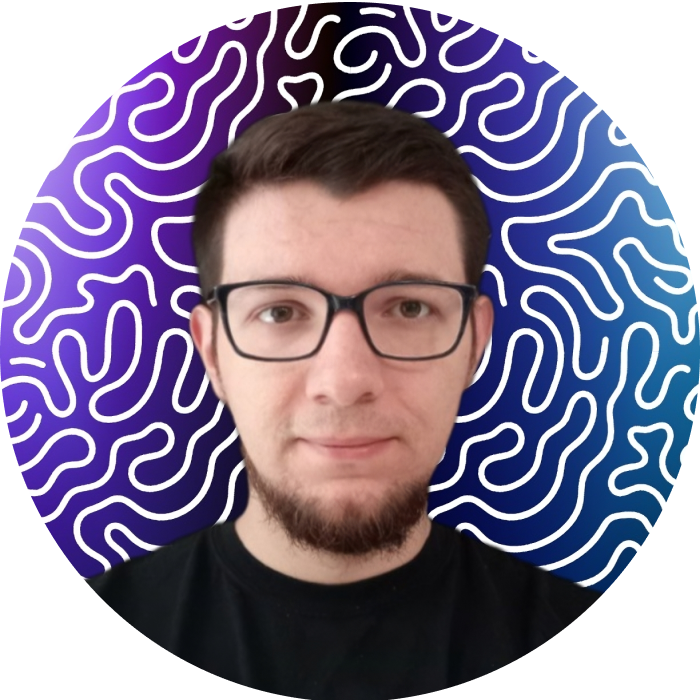
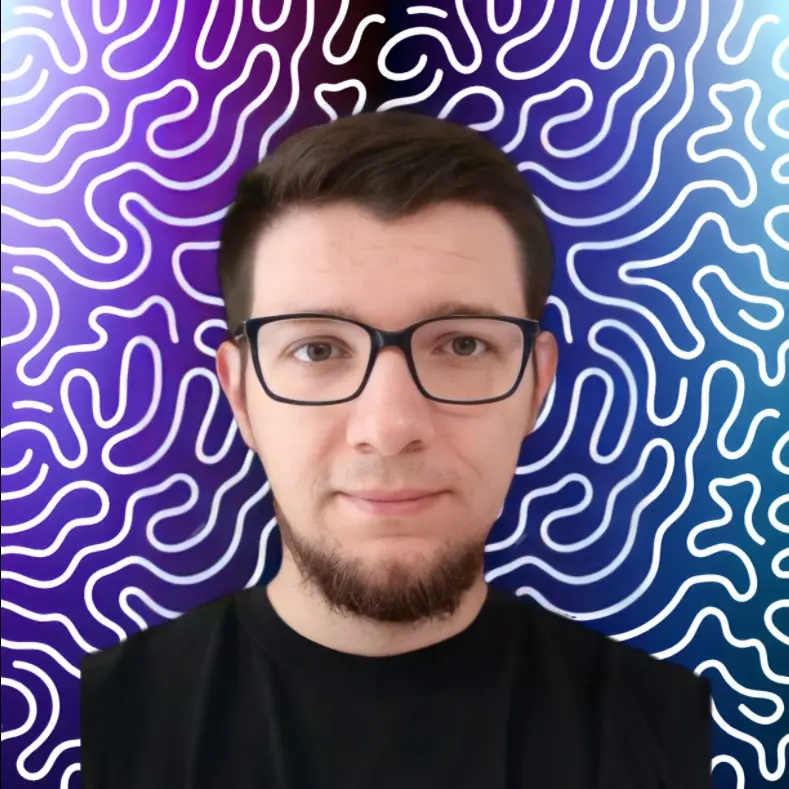
Change: changed main picture

diff --git a/src/styles/_sectionMain.scss b/src/styles/_sectionMain.scss
@@ -190,6 +190,10 @@ $b3: #abb2bf;
       margin: 0 auto;
     }
 
+    & img {
+      border-radius: 50%;
+    }
+
     &:hover {
       /* Blur_Shadow */
       border-radius: 50%;

diff --git a/src/index.css b/src/index.css
@@ -695,6 +695,9 @@ body {
     margin: 0 auto;
   }
 }
+.imagetext__picture img {
+  border-radius: 50%;
+}
 .imagetext__picture:hover {
   /* Blur_Shadow */
   border-radius: 50%;
